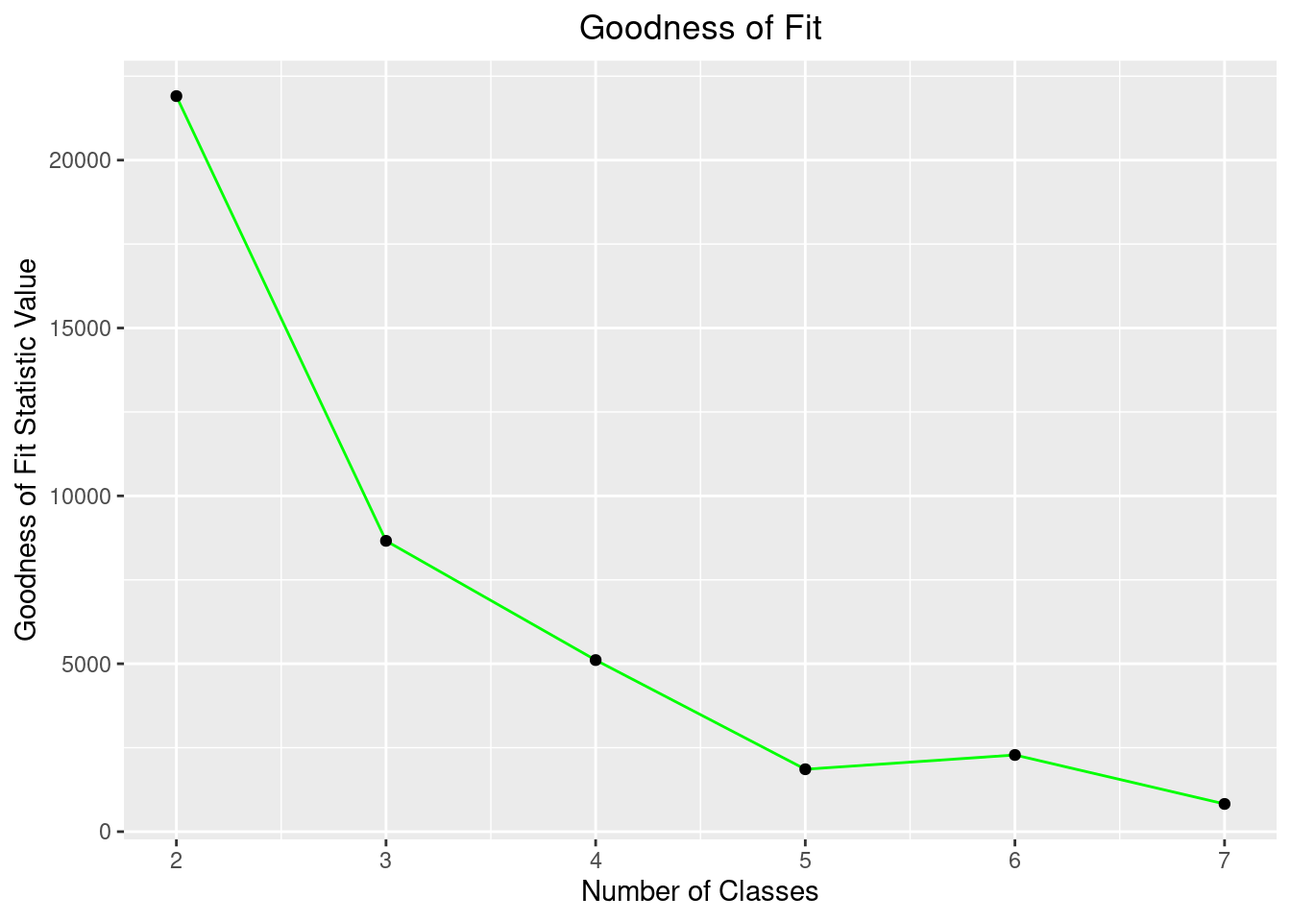
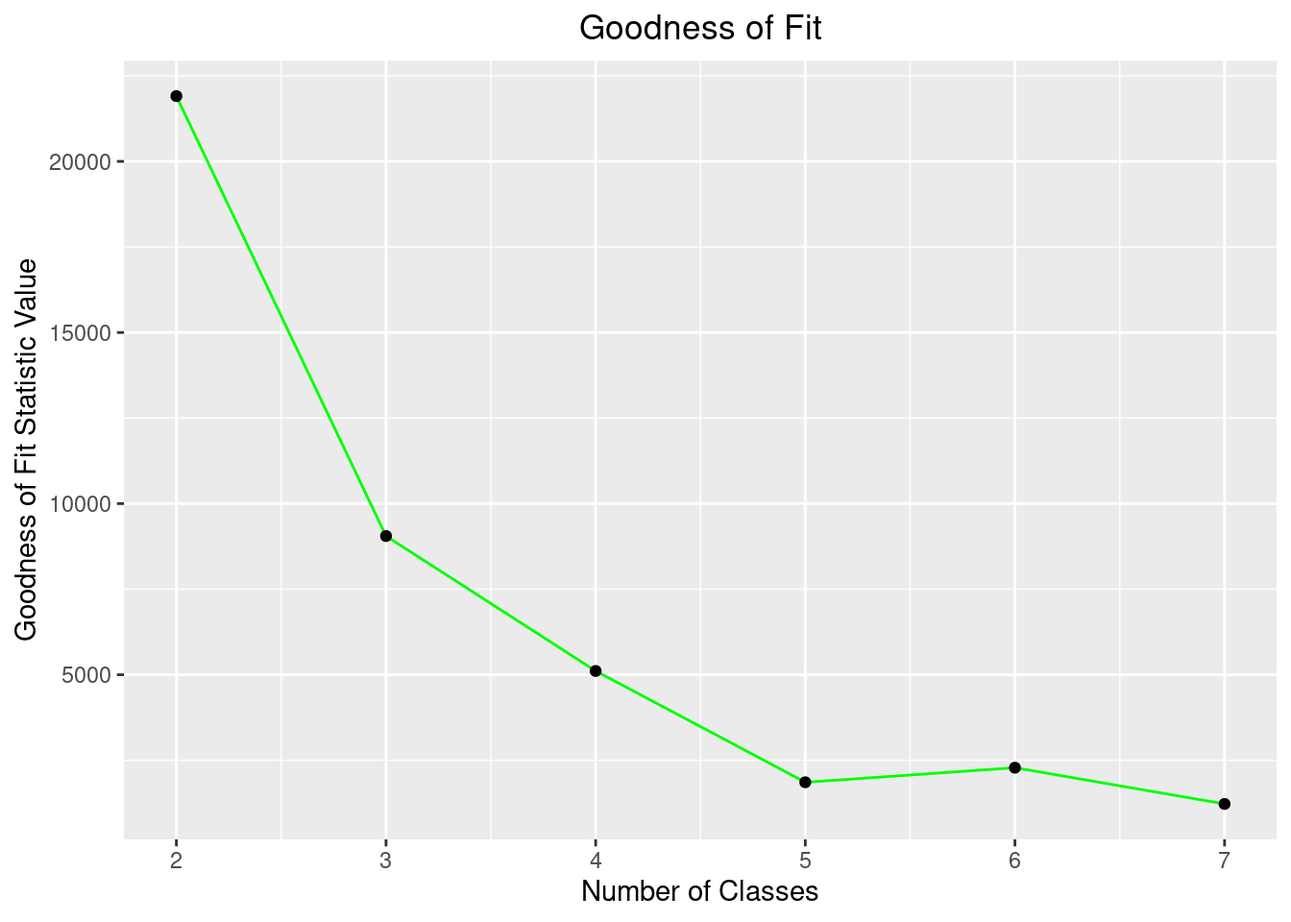
FIXING TYPOS AND GRAMMAR IN QMD/HTML

diff --git a/index.html b/index.html
@@ -7,7 +7,7 @@
 <meta name="viewport" content="width=device-width, initial-scale=1.0, user-scalable=yes">
 
 <meta name="author" content="Daniel Martin, Kameron Standhaft, Esra Ari Acar">
-<meta name="dcterms.date" content="2023-04-16">
+<meta name="dcterms.date" content="2023-04-17">
 
 <title>Latent Class Analysis</title>
 <style>
@@ -183,7 +183,7 @@ div.csl-indent {
     <div>
     <div class="quarto-title-meta-heading">Published</div>
     <div class="quarto-title-meta-contents">
-      <p class="date">April 16, 2023</p>
+      <p class="date">April 17, 2023</p>
     </div>
   </div>
     
@@ -194,7 +194,7 @@ div.csl-indent {
 
 <section id="introduction" class="level2">
 <h2 class="anchored" data-anchor-id="introduction">1. Introduction</h2>
-<p>Latent Class Analysis (LCA) is a statistical modeling method that can be utilized when it is believed that there may be unobserved subgroups (classes) among the individuals within a population. To identify these unobserved groups, LCA searches for and analyzes response patterns that may exist within categorical variables reported in the dataset <span class="citation" data-cites="nylund2018ten">(<a href="#ref-nylund2018ten" role="doc-biblioref">Nylund-Gibson and Choi 2018</a>)</span> with the ultimate goal of assigning each observation into a class based on the posterior probability of certainty that an observation should belong to a particular class <span class="citation" data-cites="vermunt2010latent">(<a href="#ref-vermunt2010latent" role="doc-biblioref">Vermunt 2010</a>)</span>. Latent Class Analysis is an example of a broader class of models called finite mixture models(FFM) <span class="citation" data-cites="grimm2021model">(<a href="#ref-grimm2021model" role="doc-biblioref">Grimm, Houpt, and Rodgers 2021</a>)</span> that seek to identify and classify instances of variance within model parameters between groups within the data that have not been explicitly defined as groups by the attributes provided within the dataset itself. Ultimately, it is the “latent class prevalence” which is being estimated through a process in which the LCA function is estimating the probability that every entry being assessed from the dataset belongs within each of the classes generated by the model<span class="citation" data-cites="law2016primer">(<a href="#ref-law2016primer" role="doc-biblioref">Law and Harrington 2016</a>)</span>.</p>
+<p>Latent Class Analysis (LCA) is a statistical modeling method that can be utilized when it is believed that there may be unobserved subgroups (classes) among the individuals within a population. To identify these unobserved groups, LCA searches for and analyzes response patterns that may exist within categorical variables reported in the dataset <span class="citation" data-cites="nylund2018ten">(<a href="#ref-nylund2018ten" role="doc-biblioref">Nylund-Gibson and Choi 2018</a>)</span> with the goal of assigning each observation into a class based on the posterior probability of certainty that an observation should belong to a particular class <span class="citation" data-cites="vermunt2010latent">(<a href="#ref-vermunt2010latent" role="doc-biblioref">Vermunt 2010</a>)</span>. Latent Class Analysis is an example of a broader class of models called finite mixture models(FFM) <span class="citation" data-cites="grimm2021model">(<a href="#ref-grimm2021model" role="doc-biblioref">Grimm, Houpt, and Rodgers 2021</a>)</span> that seek to identify and classify instances of variance within model parameters between unobserved groups within the data that have not been explicitly defined as groups by the attributes provided within the dataset itself. Ultimately, it is the “latent class prevalence” which is being estimated through a process in which the LCA function is estimating the probability that every entry being assessed from the dataset belongs within each of the classes generated by the model<span class="citation" data-cites="law2016primer">(<a href="#ref-law2016primer" role="doc-biblioref">Law and Harrington 2016</a>)</span>.</p>
 <p>LCA specifically makes the assumption that within the population potentially exists a finite number of unobserved subgroups, or latent classes, and that each individual belongs to only one of these classes <span class="citation" data-cites="weller2020latent">(<a href="#ref-weller2020latent" role="doc-biblioref">Weller, Bowen, and Faubert 2020</a>)</span>. The overarching goal of LCA is to identify where a specific subset of classes exist within a group and estimate the proportions of those subset classes within the overall population. Additionally, as shown in (Figure 1.0.1), LCA can be used to help determine if any relationships exist between the identified latent classes and any other observed variables within the dataset.</p>
 <div class="quarto-figure quarto-figure-center">
 <figure class="figure">
@@ -206,20 +206,20 @@ div.csl-indent {
 <p>As computational efficiency has improved, Latent Class Analysis has seen an uptick in interest for researchers across a variety of fields with applications in science, business, and health <span class="citation" data-cites="petersen2019application">(<a href="#ref-petersen2019application" role="doc-biblioref">Petersen, Qualter, and Humphrey 2019</a>)</span>. LCA is often most closely associated with identifying patterns of behavior or psychological characteristics that prove often otherwise difficult groups to identify<span class="citation" data-cites="kaplan2004sage">(<a href="#ref-kaplan2004sage" role="doc-biblioref">Kaplan 2004</a>)</span>.</p>
 <section id="lca-applications" class="level3">
 <h3 class="anchored" data-anchor-id="lca-applications">1.1 LCA Applications</h3>
-<p>One frequent application of Latent Class Analysis (LCA) has been to utilize it to identify subgroups of individuals within a population that may have similar or associated symptoms or characteristics of a mental health profile <span class="citation" data-cites="petersen2019application">(<a href="#ref-petersen2019application" role="doc-biblioref">Petersen, Qualter, and Humphrey 2019</a>)</span> or when and which specific barriers may exist to receiving medical care <span class="citation" data-cites="thorpe2011patterns">(<a href="#ref-thorpe2011patterns" role="doc-biblioref">Thorpe et al. 2011</a>)</span>. LCA has also been used to identify when any subgroups of a population exist containing individuals that may have different risk factors or potential outcomes of a particular disease or disease pattern <span class="citation" data-cites="petersen2019application">(<a href="#ref-petersen2019application" role="doc-biblioref">Petersen, Qualter, and Humphrey 2019</a>)</span>. Outside of health field applications, Latent Class Analysis can also be used in business and marketing to assess buying habits and even latent classes for groups with preferences for specific types of products <span class="citation" data-cites="kaplan2004sage">(<a href="#ref-kaplan2004sage" role="doc-biblioref">Kaplan 2004</a>)</span>.</p>
+<p>One frequent application of Latent Class Analysis (LCA) has been to utilize it to identify subgroups of individuals within a population that may have similar or associated symptoms or characteristics of a mental health profile <span class="citation" data-cites="petersen2019application">(<a href="#ref-petersen2019application" role="doc-biblioref">Petersen, Qualter, and Humphrey 2019</a>)</span> or when and for which specific barriers may exist to receiving medical care <span class="citation" data-cites="thorpe2011patterns">(<a href="#ref-thorpe2011patterns" role="doc-biblioref">Thorpe et al. 2011</a>)</span>. LCA has also been used to identify when any subgroups of a population exist containing individuals that may have different risk factors or potential outcomes of a particular disease or disease pattern <span class="citation" data-cites="petersen2019application">(<a href="#ref-petersen2019application" role="doc-biblioref">Petersen, Qualter, and Humphrey 2019</a>)</span>. Outside of health field applications, Latent Class Analysis can also be used in business and marketing to assess buying habits and even latent classes for groups with preferences for specific types of products <span class="citation" data-cites="kaplan2004sage">(<a href="#ref-kaplan2004sage" role="doc-biblioref">Kaplan 2004</a>)</span>.</p>
 </section>
 <section id="challenges-with-implementation-and-analysis-of-classes-using-lca" class="level3">
 <h3 class="anchored" data-anchor-id="challenges-with-implementation-and-analysis-of-classes-using-lca">1.2 Challenges with Implementation and Analysis of Classes using LCA</h3>
-<p>LCA has the ability to use mixture-modeling to distinguish and label instances of heterogeneity within a population and to identify subgroups of characteristics or individuals that may be more likely to exhibit those characteristics of heterogeneity <span class="citation" data-cites="weller2020latent">(<a href="#ref-weller2020latent" role="doc-biblioref">Weller, Bowen, and Faubert 2020</a>)</span> Identifying and labeling subgroups of a population that may not be explicitly obvious based upon its reported attributes has substantial application for helping to identify individuals within that population who may be at greater risk or likelihood for a particular outcome. This application can help drive execution of actions that may require intervention <span class="citation" data-cites="petersen2019application">(<a href="#ref-petersen2019application" role="doc-biblioref">Petersen, Qualter, and Humphrey 2019</a>)</span>.</p>
-<p>Latent class Analysis has application across a variety of fields, but there are also limitations that exist with to its use under certain circumstances that can prove challenging to its implementation. One of the major challenges that exist in any attempted implementation of this method, is being able to determine the appropriate number of latent classes. Doing so can prove time intensive and cumbersome, as the process can be somewhat subjective and often requires using a multi-step process to test multiple models and/or number of classes <span class="citation" data-cites="asparouhov2014auxiliary">(<a href="#ref-asparouhov2014auxiliary" role="doc-biblioref">Asparouhov and Muthén 2014</a>)</span>.</p>
-<p>Interpretation of the classes themselves that were generated can also provide some significant challenge as it may require knowledge of not only the implementation methodology of the LCA upon the data but also requires that the analyst have access to background information about the data attributes and context <span class="citation" data-cites="weller2020latent">(<a href="#ref-weller2020latent" role="doc-biblioref">Weller, Bowen, and Faubert 2020</a>)</span>. Though a class may be correctly identified, if the researcher/analyst does not correctly identify what is heterogenous about that class, it can lead to improper naming and assumptions about the defining characteristics of the members of that class for analysis <span class="citation" data-cites="weller2020latent">(<a href="#ref-weller2020latent" role="doc-biblioref">Weller, Bowen, and Faubert 2020</a>)</span>.</p>
+<p>LCA has the ability to use mixture-modeling to distinguish and label instances of heterogeneity within a population and to identify subgroups of characteristics or individuals that may be more likely to exhibit those characteristics of heterogeneity <span class="citation" data-cites="weller2020latent">(<a href="#ref-weller2020latent" role="doc-biblioref">Weller, Bowen, and Faubert 2020</a>)</span>. Identifying and labeling subgroups of a population that may not be explicitly obvious based upon its reported attributes has substantial application for helping to identify individuals within that population who may be at greater risk or likelihood for a particular outcome. This application can help drive execution of actions that may require intervention <span class="citation" data-cites="petersen2019application">(<a href="#ref-petersen2019application" role="doc-biblioref">Petersen, Qualter, and Humphrey 2019</a>)</span>.</p>
+<p>Latent Class Analysis has application across a variety of fields, but there are also limitations that exist with to its use under certain circumstances that can prove challenging to its implementation. One of the major challenges that exist in any attempted implementation of this method, is being able to determine the appropriate number of latent classes to choose for modeling the dataset. Doing so can prove time intensive and cumbersome, as the process can be somewhat subjective and often requires using a multi-step process to test multiple models and/or number of classes <span class="citation" data-cites="asparouhov2014auxiliary">(<a href="#ref-asparouhov2014auxiliary" role="doc-biblioref">Asparouhov and Muthén 2014</a>)</span>.</p>
+<p>Interpretation of the classes themselves that were generated can also provide some challenge as it may require knowledge of not only the implementation methodology of the LCA upon the data but also requires that the analyst have access to background information about the data attributes and context <span class="citation" data-cites="weller2020latent">(<a href="#ref-weller2020latent" role="doc-biblioref">Weller, Bowen, and Faubert 2020</a>)</span>. Though a class may be correctly identified, if the researcher/analyst does not correctly identify what is heterogenous about that class, it can lead to improper naming and assumptions about the defining characteristics of the members of that class for analysis and application <span class="citation" data-cites="weller2020latent">(<a href="#ref-weller2020latent" role="doc-biblioref">Weller, Bowen, and Faubert 2020</a>)</span>.</p>
 </section>
 </section>
 <section id="methods" class="level2">
 <h2 class="anchored" data-anchor-id="methods">2. Methods</h2>
 <section id="explanation-of-latent-class-analysis-lca" class="level3">
 <h3 class="anchored" data-anchor-id="explanation-of-latent-class-analysis-lca">2.1 Explanation of Latent Class Analysis (LCA)</h3>
-<p>Latent class analysis (LCA) is a statistical method used to identify hidden patterns or clusters within a dataset. This technique groups a set of observations based on several variables into distinct and exclusive categories, where the variables are unrelated within each category but similar across each one. Essentially, LCA is a type of finite mixture model (FMM), also known as unsupervised learning models, which combine different distributions to group similar data based on selected parameters, resulting in data segmentation<span class="citation" data-cites="naldi2020research">(<a href="#ref-naldi2020research" role="doc-biblioref">Naldi and Cazzaniga 2020</a>)</span>.</p>
+<p>Latent class analysis (LCA) is a statistical method used to identify hidden patterns or clusters within a dataset. This technique groups a set of observations based on several variables into distinct and exclusive categories, where the variables are unrelated within each category but similar across each one. Essentially, LCA as a type of finite mixture model (FMM), also known as unsupervised learning models, combines different distributions to group similar data based on selected parameters, resulting in data segmentation<span class="citation" data-cites="naldi2020research">(<a href="#ref-naldi2020research" role="doc-biblioref">Naldi and Cazzaniga 2020</a>)</span>.</p>
 <p>In LCA, there are two types of parameters. The first type is the inclusion probabilities, which represent the probability of a random case in a population being assigned to any latent class. The second type is the conditional probabilities, which describe the likelihood of a variable taking a certain value, given that it belongs to a specific class<span class="citation" data-cites="naldi2020research">(<a href="#ref-naldi2020research" role="doc-biblioref">Naldi and Cazzaniga 2020</a>)</span>.</p>
 <p>To determine the parameters of the sub-distributions in LCA, maximum likelihood estimation is often used with the expectation-maximization algorithm. This algorithm is a well-established method for evaluating the goodness of fit of a statistical model. The standard equation <span class="citation" data-cites="naldi2020research">(<a href="#ref-naldi2020research" role="doc-biblioref">Naldi and Cazzaniga 2020</a>)</span> for LCA is:</p>
 <p><span class="math display">\[ p(x_i)=\sum_{k = 1}^{K}{p_k}\prod_{n = 1}^{N}{p_n(x_{in}|k)},\]</span></p>
@@ -229,11 +229,11 @@ div.csl-indent {
 <h3 class="anchored" data-anchor-id="general-steps-of-latent-class-analysis-lca">2.2 General Steps of Latent Class Analysis (LCA)</h3>
 <p>The general steps to use latent class analysis are as follows:</p>
 <ol type="1">
-<li><p>Identify the research question and define the variables &amp; define the categorical variables that will be used in the analysis</p></li>
+<li><p>Identify the research question and define the variables, specifically the categorical variables that will be used in the analysis</p></li>
 <li><p>Select the appropriate software: In this project R Studio will be used for the LCA</p></li>
-<li><p>Determine the number of latent classes</p></li>
+<li><p>Determine the number of latent classes to assess for ideal model</p></li>
 <li><p>Estimate the model: Estimate the model parameters using maximum likelihood estimation or Bayesian estimation</p></li>
-<li><p>Evaluate the model: After estimating the model, evaluate its fit using goodness-of-fit statistics such as the likelihood ratio test, Akaike Information Criterion (AIC), and Bayesian Information Criterion (BIC), entropy, and chi-square Goodness-of-Fit. If our model fits well, interpret the results and report the estimated probabilities of individuals belonging to each class.</p></li>
+<li><p>Evaluate the model: After estimating the model, evaluate its fit using goodness-of-fit statistics such as the likelihood ratio test, Akaike Information Criterion (AIC), and Bayesian Information Criterion (BIC), entropy, and chi-square Goodness-of-Fit (X^2). If the model fits well, interpret the results and report the estimated probabilities of individuals belonging to each class.</p></li>
 <li><p>Conduct sensitivity analysis: Finally, conduct sensitivity analyses to test the robustness of the results and evaluate the stability of the estimated probabilities across different subgroups or samples.</p></li>
 </ol>
 </section>
@@ -245,10 +245,11 @@ div.csl-indent {
 <p>We will be using the RStudio poLCA package library, which allows us to specify the number of classes for which we want RStudio to generate an LCA model. This package provides several tools for fitting and assessing LCA models.</p>
 <p><strong>Options to be utilized:</strong></p>
 <ul>
-<li><strong>na.rm</strong>: allows poLCA to manage any cases where values may be missing within the data.</li>
-<li><strong>graphs</strong>: displays parameter estimates for the model in an easy-to-read prediction of member classification</li>
-<li><strong>nrep</strong>: allows specification of the number of repetitions for poLCA to assess the model for the best BIC value</li>
+<li><strong>na.rm</strong>: allows the poLCA to function to account for any circumstances in which values may be missing within the data fields.</li>
+<li><strong>graphs</strong>: displays parameter estimates as a proportion from 0.0 to 1.0, for the attributes within the model</li>
+<li><strong>nrep</strong>: allows specification of the number of random starting values used by the poLCA function to assess the model for the best BIC value</li>
 <li><strong>verbose</strong>: used to assess individual attribute predictions as well as concisely providing fit statistics</li>
+<li><strong>maxiter</strong>: assigns the maximum number of iterations that can be used per run (<strong>nrep</strong>) to achieve convergence of the poLCA estimation algorithm</li>
 </ul>
 <p><strong>All Necessary Libraries are loaded here:</strong></p>
 <div class="cell">
@@ -282,8 +283,8 @@ div.csl-indent {
 <h3 class="anchored" data-anchor-id="dataset-description">3.2 Dataset Description</h3>
 <p>For this project we will be exploring how well Latent Class Analysis will group our dataset of zoo animals from Kaggle called <a href="https://www.kaggle.com/datasets/ulrikthygepedersen/zoo-animals">Zoo Animals</a> into subgroups based upon unmeasured homogeneity across 14 categorical variables collected for each animal.</p>
 <p>There are 101 entries and a total of 18 variables in this dataset. The variables give information about the physical attributes of each of the animals, such as if they have hair, if they have teeth, if they lay eggs, etc. Of the 18 variables, 15 of them are binary variables and one of them is discrete. This majority of binary variables is why we chose this dataset for Latent Class Analysis.</p>
-<p>The variable that we are concerned with the most is the “type” variable. This variable has 7 categories: mammals, fish, birds, insects, reptiles, invertebrates, amphibians. Of the 101 entries, 42 are mammals (41.58%), 21 are birds (20.79%), 14 are fish (13.86%), 11 are invertebrates (10.89%), 8 are insects (7.92%), 6 are reptiles (5.94%), and 5 are amphibians (4.95%).</p>
-<p>Among other variables, we will be removing the “type” variable from the dataset. Latent Class Analysis will be utilized to ascertain whether the groups identified by this method correspond to the seven animal types.</p>
+<p>As a comparison metric for assessing the quality of the LCA models generated, the variable that we are concerned with the most is the “type” variable. This variable has 7 categories: mammals, fish, birds, insects, reptiles, invertebrates, amphibians. Of the 101 entries, 42 are mammals (41.58%), 21 are birds (20.79%), 14 are fish (13.86%), 11 are invertebrates (10.89%), 8 are insects (7.92%), 6 are reptiles (5.94%), and 5 are amphibians (4.95%).</p>
+<p>Among other variables, we will be removing the “type” variable from the dataset. Latent Class Analysis will be utilized to ascertain whether the groups identified by this method correspond to the seven animal types or if there is a different set of subclasses identified by the best LCA model as assessed by the convential LCA model assessment criteria.</p>
 <p><strong>Table 3.2.1 Variables considered in LCA Analysis:</strong></p>
 <div class="cell">
 <details>
@@ -479,7 +480,7 @@ div.csl-indent {
 </section>
 <section id="load-data" class="level3">
 <h3 class="anchored" data-anchor-id="load-data">3.3 Load Data</h3>
-<p>When the data is first loaded, with each categorical variable, there is an apostrophe and a “b” before each word and at the end, there is an apostrophe. The data were cleaned into the file Zoo_clean with these extra characters removed leaving only “TRUE” &amp; “FALSE”.</p>
+<p>In the original raw dataset, within each categorical variable text, there is an apostrophe and a “b” before each word and at the end, there is an apostrophe. The data were cleaned into the file Zoo_clean with these extra characters removed leaving only “TRUE” &amp; “FALSE”.</p>
 <p>Below is where we import the cleaned dataset without the apostrophes or the “b”s.</p>
 <div class="cell">
 <details>
@@ -494,7 +495,7 @@ div.csl-indent {
 <section id="data-preparation" class="level3">
 <h3 class="anchored" data-anchor-id="data-preparation">3.4 Data Preparation</h3>
 <p>As mentioned above, we will be removing the “type” variable from the dataset with the goal of trying to replicate this level of classification through the latent class detection. The identifier variable “animal” will also be removed. Finally, we only want objective binary variables in our dataset, so we will also be removing “catsize” and “domestic” from the dataset, and transforming legs (denoting the number of legs a creature has) to has_legs (a binary operator indicating whether any legs are present or not).</p>
-<p>We will be using the poLCA function from the poLCA package library, which requires an input of positive integer values &lt;=1. As such, we transformed our dataset from logical operators TRUE/FALSE to binary integers 0/1. But as poLCA function cannot accept “0” as a value, we further transformed the data by incrementing all values by 1, wherein “FALSE” is represented by “1”, and “TRUE” is represented by “2”.</p>
+<p>We will be using the poLCA function from the poLCA package library, which requires an input of positive integer values &gt;=1. As such, we transformed our dataset from logical operators TRUE/FALSE to binary integers 0/1. But as poLCA function cannot accept “0” as a value, we further transformed the data by incrementing all values by 1, wherein “FALSE” is represented by “1”, and “TRUE” is represented by “2”.</p>
 <div class="cell">
 <details>
 <summary>Code</summary>
@@ -522,7 +523,8 @@ div.csl-indent {
 </section>
 <section id="statistical-modeling" class="level2">
 <h2 class="anchored" data-anchor-id="statistical-modeling">4. Statistical Modeling</h2>
-<p>Below we use the cbind function used to bind Columns being used in LCA</p>
+<p>Potentially the most difficult decision to make regarding identification of latent classes is determining the correct number of classes to use in our model. We will be assessing 2,3,4,5,6, and 7 number of classes in modeling.</p>
+<p>Below we begin preparing to build our models by using the cbind function used to bind Columns being used in LCA.</p>
 <div class="cell">
 <details>
 <summary>Code</summary>
@@ -535,8 +537,7 @@ div.csl-indent {
 </div>
 <section id="fitting-lca-models-with-2-7-of-classes" class="level3">
 <h3 class="anchored" data-anchor-id="fitting-lca-models-with-2-7-of-classes">4.1 Fitting LCA Models with 2-7 # of Classes</h3>
-<p>Potentially the most difficult decision to make regarding identification of latent classes is determining the correct number of classes to use in our model. We will be assessing 2,3,4,5,6, and 7 number of classes in modeling.</p>
-<p>We will be running each of our 6 models for 100 repetitions. This will allow us to have consistent results for each number of classes per model to report upon without large swings in class sizes and predictions, and will additionally provide a best model for each number of classes.</p>
+<p>We will be running each of our 6 models 100 times(100 random starting values) each with 100 iterations. This will allow us to have consistent results for each number of classes per model to report upon without large swings in class sizes and predictions, and will additionally provide a best model for each number of classes.</p>
 <p><strong>Fitting a 2-class LCA Model</strong></p>
 <p>For the 2-class model, we have selected to display the output of the poLCA model results using the [graph = TRUE] option.</p>
 <p>For each variable, this indicates the percentage of members of the original dataset that have that attribute broken down by which latent class was assigned in the model for that number of classes.</p>
@@ -611,8 +612,8 @@ div.csl-indent {
 </section>
 <section id="model-comparison-statistics" class="level3">
 <h3 class="anchored" data-anchor-id="model-comparison-statistics">4.2 Model Comparison Statistics</h3>
-<p>Arguably the model difficult part of using Latent Class Analysis is determining the correct number of classes to use to properly model the data. There are a number of statistics that help to indicate fit quality for each model, which we go through below to help select the correct number of classes for a good model.</p>
-<p><strong>As a note</strong>: For each of these models, we are running 100 repetitions, and the criteria for which the best model is chosen is using the lowest BIC. The models and fit statistics can vary slightly through each run, even with 100 repetitions.</p>
+<p>As determining the correct number of classes to use to properly model the data can often prove challenging, we will use a number of statistics to help indicate fit quality for each model, which we go through below to help select the correct number of classes for a good model.</p>
+<p><strong>Note</strong>: For each of these 6 models, we are running 100 repetitions random starting value, each with 100 iterations to help achieve convergence of the models for comparison. The criteria for which the best model is chosen by the poLCA function is the lowest BIC value. Without increasing the number of runs and iterations, the model and fit statistics can be inconsistent.</p>
 <p>To compare these models, we will be primarily looking at the Akaike Information Criterion (AIC), the Bayesian Information Criterion (BIC), and the Chi-square goodness of fit statistic (X^2).</p>
 <p>In a traditional research environment, these statistics would be likely the best decision criteria we could expect to have for assessing the model. In the case of our data, we have a comparison classification attribute “type” in our dataset that we will withhold from the Latent Class Analysis procedure as a secondary means to assess how well the model classifies the members of the dataset - in this case animals within a zoo. It is possible, however, that the LCA may find latent classes that differ from these defined classifications, which roughly correspond to the Linnaean taxonomic classification of classes within the Kingdom Animalia.</p>
 <p>A lower value for the AIC and BIC values as well as the (X^2), indicate that the model is a better fit for the data.</p>
@@ -667,37 +668,37 @@ div.csl-indent {
    <td style="text-align:right;font-weight: bold;color: white !important;background-color: steelblue !important;"> 2 </td>
    <td style="text-align:right;background-color: lavender !important;"> 1275.0796 </td>
    <td style="text-align:right;background-color: lavender !important;"> 1350.918 </td>
-   <td style="text-align:right;background-color: lavender !important;"> 21906.5549 </td>
+   <td style="text-align:right;background-color: lavender !important;"> 21906.557 </td>
   </tr>
   <tr>
    <td style="text-align:right;font-weight: bold;color: white !important;background-color: steelblue !important;"> 3 </td>
-   <td style="text-align:right;background-color: lavender !important;"> 1102.0079 </td>
-   <td style="text-align:right;background-color: lavender !important;"> 1217.073 </td>
-   <td style="text-align:right;background-color: lavender !important;"> 8660.6195 </td>
+   <td style="text-align:right;background-color: lavender !important;"> 1103.9653 </td>
+   <td style="text-align:right;background-color: lavender !important;"> 1219.031 </td>
+   <td style="text-align:right;background-color: lavender !important;"> 9052.214 </td>
   </tr>
   <tr>
    <td style="text-align:right;font-weight: bold;color: white !important;background-color: steelblue !important;"> 4 </td>
    <td style="text-align:right;background-color: lavender !important;"> 1010.0118 </td>
    <td style="text-align:right;background-color: lavender !important;"> 1164.304 </td>
-   <td style="text-align:right;background-color: lavender !important;"> 5109.7659 </td>
+   <td style="text-align:right;background-color: lavender !important;"> 5109.766 </td>
   </tr>
   <tr>
    <td style="text-align:right;font-weight: bold;color: white !important;background-color: steelblue !important;"> 5 </td>
    <td style="text-align:right;background-color: lavender !important;"> 983.3932 </td>
    <td style="text-align:right;background-color: lavender !important;"> 1176.912 </td>
-   <td style="text-align:right;background-color: lavender !important;"> 1858.3882 </td>
+   <td style="text-align:right;background-color: lavender !important;"> 1858.388 </td>
   </tr>
   <tr>
    <td style="text-align:right;font-weight: bold;color: white !important;background-color: steelblue !important;"> 6 </td>
    <td style="text-align:right;background-color: lavender !important;"> 965.9335 </td>
    <td style="text-align:right;background-color: lavender !important;"> 1198.679 </td>
-   <td style="text-align:right;background-color: lavender !important;"> 2283.3574 </td>
+   <td style="text-align:right;background-color: lavender !important;"> 2283.357 </td>
   </tr>
   <tr>
    <td style="text-align:right;font-weight: bold;color: white !important;background-color: steelblue !important;"> 7 </td>
-   <td style="text-align:right;background-color: lavender !important;"> 958.0054 </td>
-   <td style="text-align:right;background-color: lavender !important;"> 1229.978 </td>
-   <td style="text-align:right;background-color: lavender !important;"> 824.9267 </td>
+   <td style="text-align:right;background-color: lavender !important;"> 958.7507 </td>
+   <td style="text-align:right;background-color: lavender !important;"> 1230.723 </td>
+   <td style="text-align:right;background-color: lavender !important;"> 1224.750 </td>
   </tr>
 </tbody>
 </table>
@@ -872,12 +873,12 @@ div.csl-indent {
 
 </div>
 </div>
-<p><strong>Class 1</strong> which, as the largest class, is estimated to contain ~35.46% of the population predicts its members to have hair, toothed, backbone, breathes, tail, has_legs. We filtered the cleaned new_zoo dataset for these attributes, and noted that all members were classified as type “mammal” in the original dataset.</p>
-<p><strong>Class 2</strong> which is estimated to contain ~20.78% of the population predicts its members to have feathers, eggs, backbone, breathes, tail, has_legs. We filtered the cleaned new_zoo dataset for these attributes, and noted that all members were classified as type “bird” in the original dataset.</p>
-<p><strong>Class 3</strong> is estimated to contain ~17.09% of the population. This class is the least homogenous, and it should be noted that it has two attributes (breathes and predator) which were both over 50% shown on the graph, but as we excluded our filtering to ~80% and above, these are not selected in the filter.</p>
-<p>These class members are predicted to have eggs and has_legs. While this limited selection duplicates a few of the previous members that were selected for other classes, this class also contains the invertebrates and insects, which were not present in the other classes.</p>
-<p><strong>Class 4</strong> which is estimated to contain ~13.09% of the population is less homogenous than Classes 1 &amp; 2, but not as heterogenous as Class 3. The original classification schema of “type” had 7 unique values, which implies that with a 5-class model, overlap is inevitable. This is only visible due to the fact that we have the original data for “type” for illustration purposes, which is unlikely to be the case in research data.This class’ members ar predicted to have aquatic, predator, toothed, backbone, breathes, tail. We filtered the cleaned new_zoo dataset for these attributes. The resulting filter only yielded 5 members, which are mostly aquatic mammals and a single amphibian.</p>
-<p><strong>Class 5</strong> which is the smallest class, estimated to contain ~12.85% of the population predicts its members to have eggs, aquatic, toothed, backbone, fins, tail. We filtered the cleaned new_zoo dataset for these attributes, and noted that all members were classified as type “fish” in the original dataset.</p>
+<p><strong>Class 1</strong> which, as the largest class, is estimated to contain ~35.46% of the population predicts its members to have ‘hair’, ‘toothed’, ‘backbone’, ‘breathes’, ‘tail’, ‘has_legs’. We filtered the cleaned new_zoo dataset for these attributes, and noted that all members were classified as type ‘mammal’ in the original dataset.</p>
+<p><strong>Class 2</strong> which is estimated to contain ~20.78% of the population predicts its members to have ‘feathers’, ‘eggs’, ‘backbone’, ‘breathes’, ‘tail’, ‘has_legs’. We filtered the cleaned new_zoo dataset for these attributes, and noted that all members were classified as type ‘bird’ in the original dataset.</p>
+<p><strong>Class 3</strong> is estimated to contain ~17.09% of the population. It should be noted that it has two attributes (‘breathes’ and ‘predator’) which were both over 50% shown on the graph, but as we excluded our initial filtering assessment to ~80% and above, these are not selected in the filter.</p>
+<p>These class members are predicted to have ‘eggs’ and ‘has_legs’. While this limited selection duplicates a few of the previous members that were selected for other classes, this class also contains the invertebrates and insects, which were not present in the other classes. Based solely upon outside comparison to the type attribute in the original dataset, this class appears to be the least homogenous.</p>
+<p><strong>Class 4</strong> which is estimated to contain ~13.09% of the population is less homogenous than Classes 1 &amp; 2, but not as heterogenous as Class 3. The original classification schema of “type” had 7 unique values, which implies that with a 5-class model, overlap is inevitable. This is only visible due to the fact that we have the original data for “type” for illustration purposes, which is unlikely to be the case in research data.This class’ members ar predicted to have ‘aquatic’, ‘predator’, ‘toothed’, ‘backbone’, ‘breathes’, ‘tail’. We filtered the cleaned new_zoo dataset for these attributes. The resulting filter only yielded 5 members, which are mostly aquatic mammals and a single amphibian.</p>
+<p><strong>Class 5</strong> which is the smallest class, estimated to contain ~12.85% of the population predicts its members to have ‘eggs’, ‘aquatic’, ‘toothed’, ‘backbone’, ‘fins’, ‘tail’. We filtered the cleaned new_zoo dataset for these attributes, and noted that all members were classified as type ‘fish’ in the original dataset.</p>
 <div class="cell">
 <details>
 <summary>Code</summary>
@@ -1031,7 +1032,7 @@ div.csl-indent {
    <td style="text-align:left;font-weight: bold;color: white !important;background-color: steelblue !important;"> Adjusted 5-Class Model </td>
    <td style="text-align:right;background-color: lavender !important;"> 954.2627 </td>
    <td style="text-align:right;"> 1134.706 </td>
-   <td style="text-align:right;"> 1568.741 </td>
+   <td style="text-align:right;"> 1568.740 </td>
    <td style="text-align:right;"> 4.043642 </td>
   </tr>
 </tbody>
